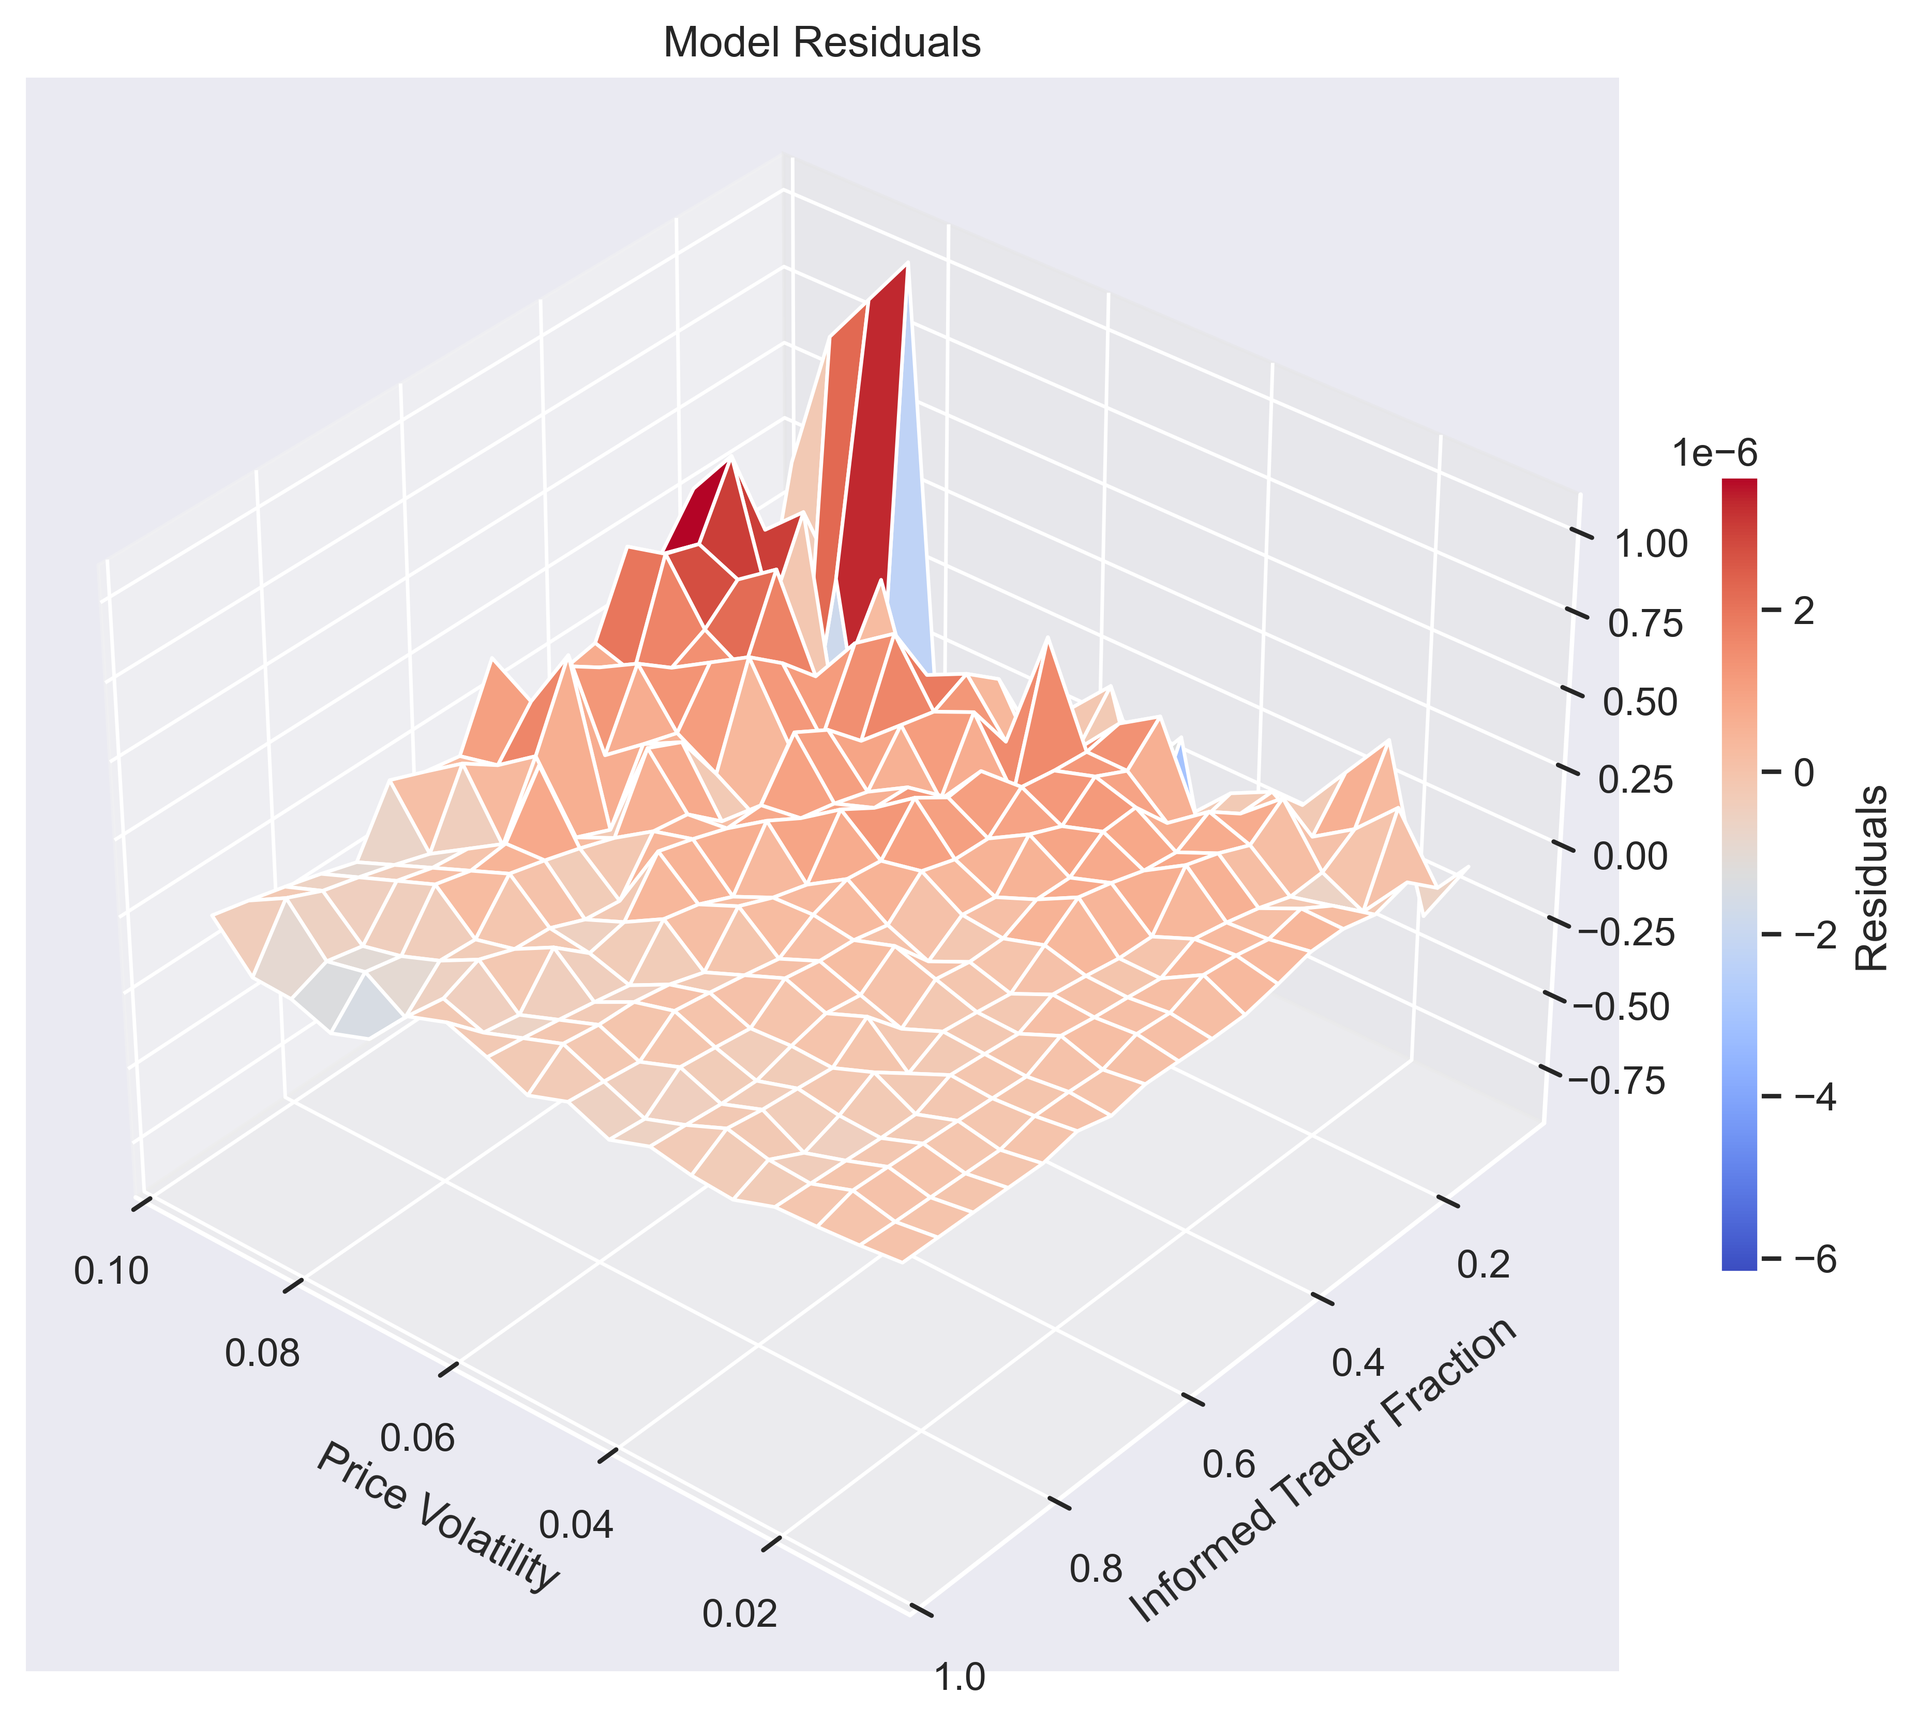
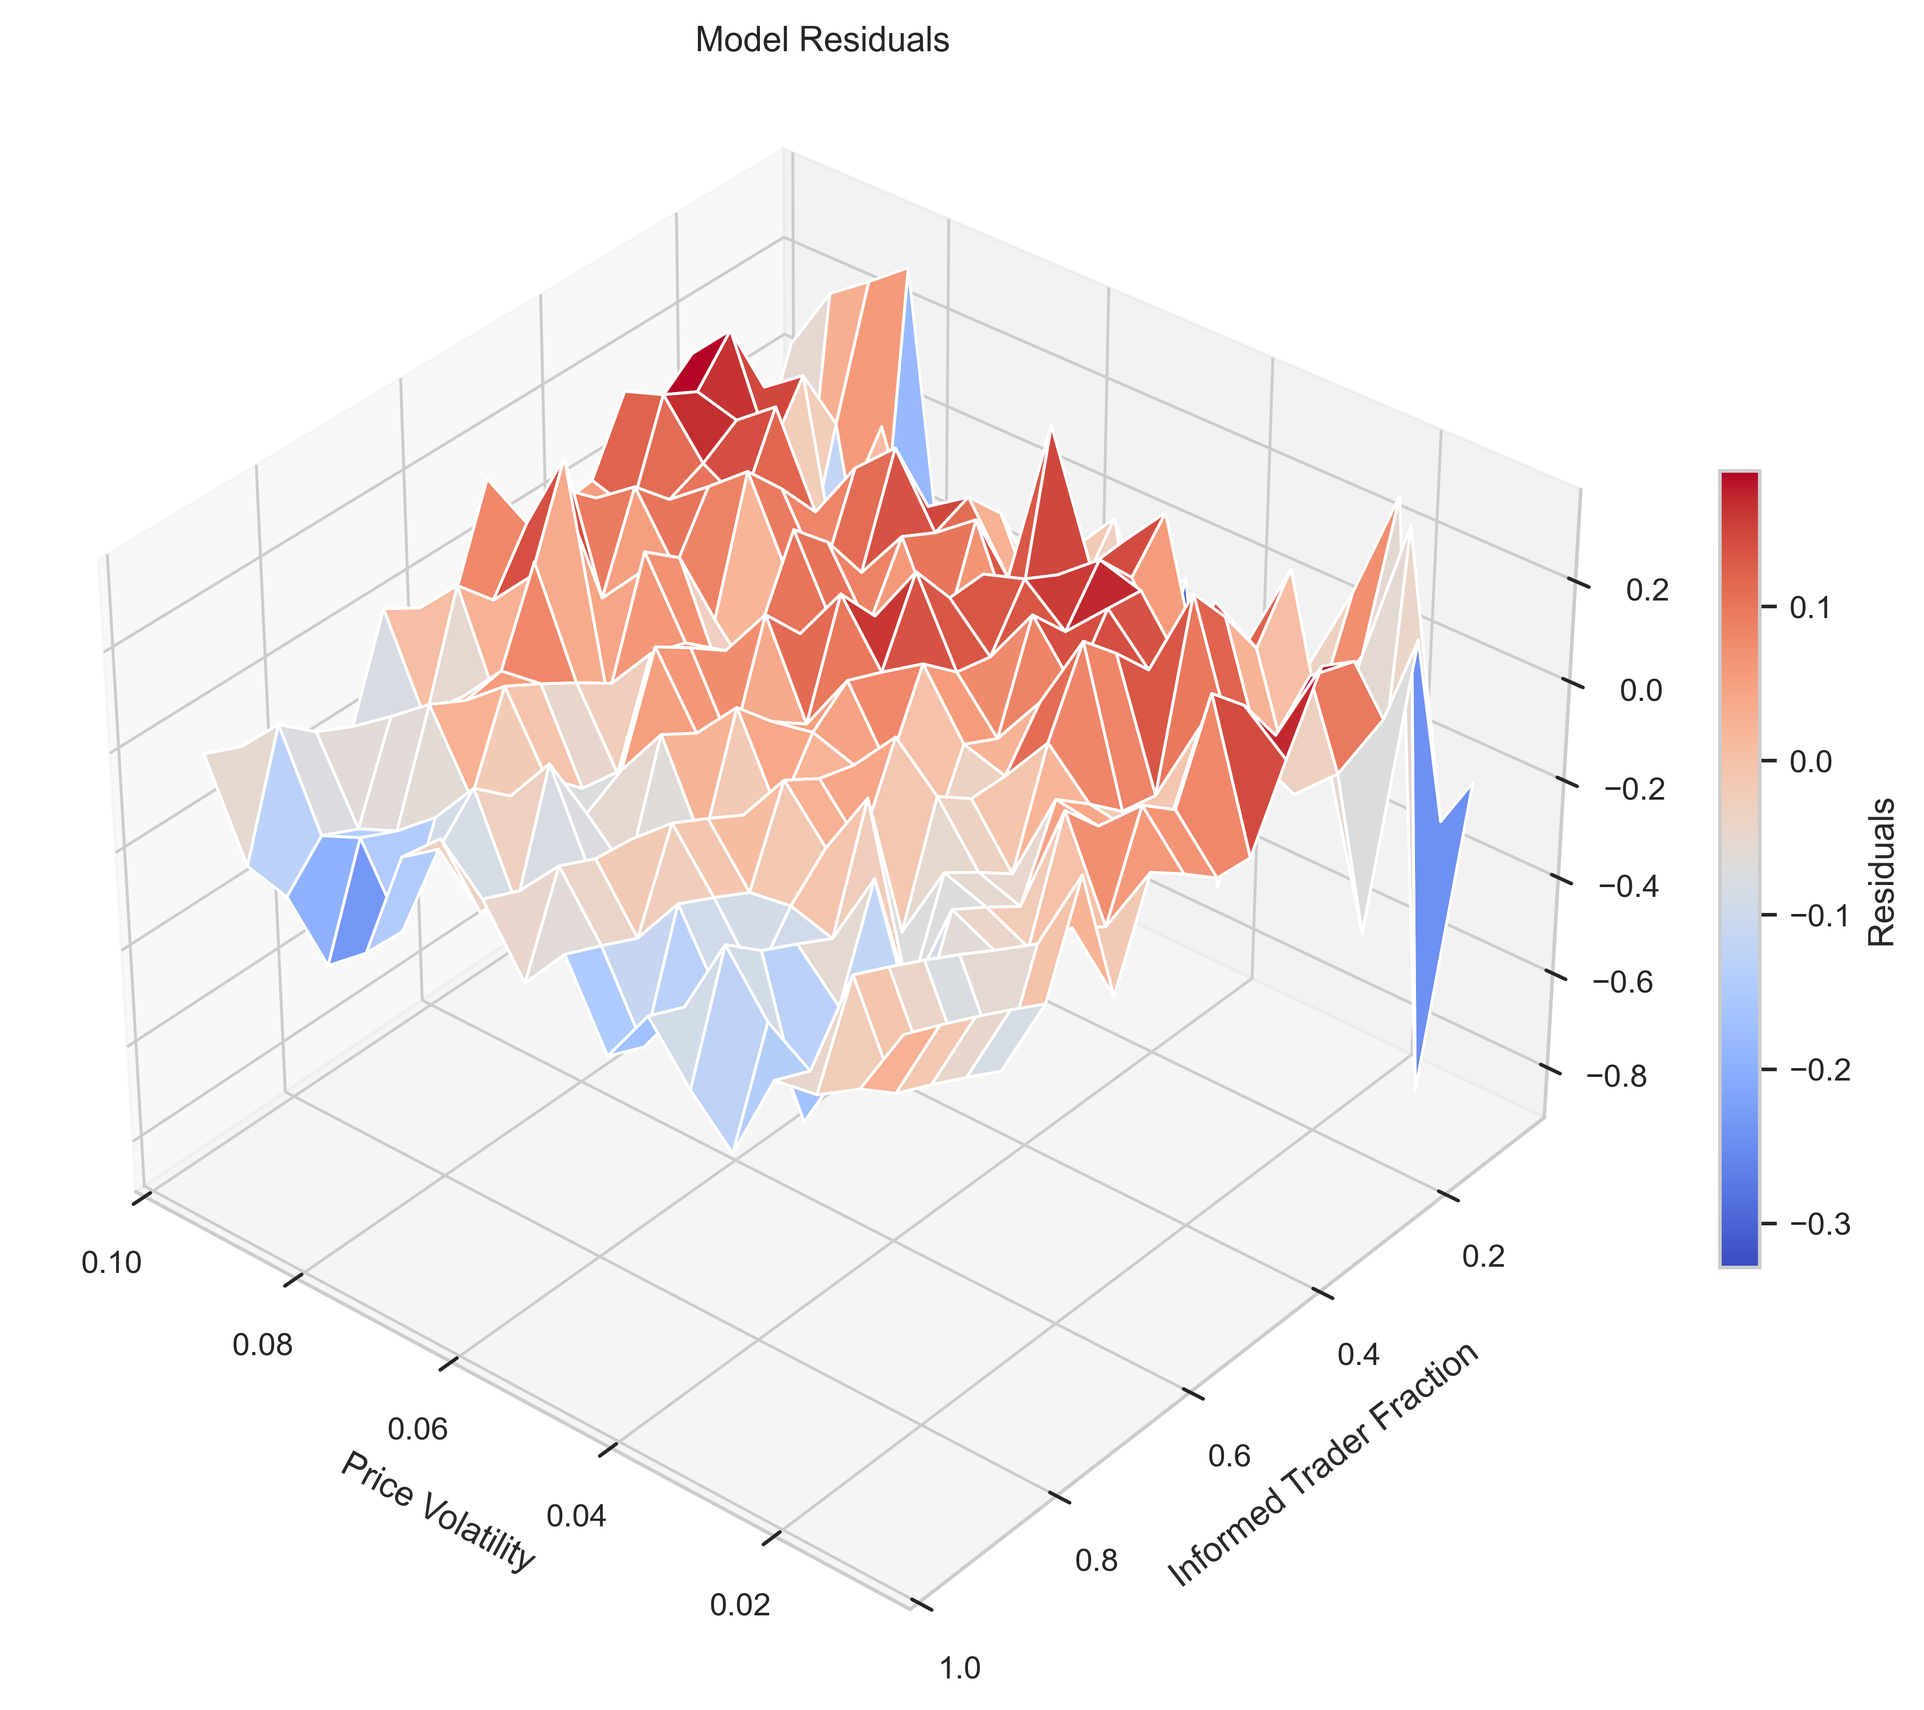
Finished first draft of report

diff --git a/experiments/simulations/src/render/path_plots.py b/experiments/simulations/src/render/path_plots.py
@@ -129,35 +129,9 @@ def plot_trajectory_on_axes(path_data, ax_price, ax_pnl, title=None):
     )
 
 
-def plot_single_trajectory(path, output_dir, filename="single_trajectory.png", dpi=500):
-    """Create figure with single trajectory and PnL plot."""
-    sns.set_theme()
-
-    path_data = path["path data"]
-    price_lim, pnl_lim = compute_axis_limits([path_data])
-
-    fig, axes = plt.subplots(
-        nrows=2,
-        gridspec_kw={"height_ratios": [2, 1]},
-        figsize=(10, 8),
-    )
-
-    axes[0].set_ylim(*price_lim)
-    axes[1].set_ylim(*pnl_lim)
-
-    plot_trajectory_on_axes(path_data, axes[0], axes[1], title="Simulated Trajectory")
-
-    plt.tight_layout()
-    fig.savefig(os.path.join(output_dir, filename), dpi=dpi, bbox_inches="tight")
-
-    return fig
-
-
-def plot_trajectory_comparison(
-    paths, output_dir, filename="trajectory_comparison.png", dpi=500
-):
+def plot_trajectories(paths, output_dir, filename="trajectory_comparison.png", dpi=500):
     """Create figure comparing multiple trajectories side-by-side."""
-    sns.set_theme()
+    sns.set_theme(style="whitegrid", context="paper")
 
     n_paths = len(paths)
     path_data_list = [data["path data"] for data in paths.values()]
@@ -171,14 +145,23 @@ def plot_trajectory_comparison(
         figsize=(10, 8),
     )
 
-    axes[0, 0].set_ylim(*price_lim)
-    axes[1, 0].set_ylim(*pnl_lim)
-
-    for j, (param, data) in enumerate(paths.items()):
-        path_data = data["path data"]
+    if n_paths == 1:
+        axes[0].set_ylim(*price_lim)
+        axes[1].set_ylim(*pnl_lim)
+        path_data = path_data_list[0]
         plot_trajectory_on_axes(
-            path_data, axes[0, j], axes[1, j], title=f"Skew coefficient: {param}"
+            path_data, axes[0], axes[1], title="Simulated Trajectory"
         )
+
+    else:
+        axes[0, 0].set_ylim(*price_lim)
+        axes[1, 0].set_ylim(*pnl_lim)
+
+        for j, (param, data) in enumerate(paths.items()):
+            path_data = data["path data"]
+            plot_trajectory_on_axes(
+                path_data, axes[0, j], axes[1, j], title=f"Skew coefficient: {param}"
+            )
 
     plt.tight_layout()
     fig.savefig(os.path.join(output_dir, filename), dpi=dpi, bbox_inches="tight")
@@ -214,7 +197,7 @@ def render_trajectory_figures(
         print(f"Loading comparison data from {comparison_data_path}...")
         paths = load_data(comparison_data_path)
         print(f"Generating trajectory comparison ({len(paths)} scenarios)...")
-        fig_comparison = plot_trajectory_comparison(
+        fig_comparison = plot_trajectories(
             paths, output_dir, "trajectory_comparison.png", dpi
         )
         figures["comparison"] = fig_comparison
@@ -224,9 +207,7 @@ def render_trajectory_figures(
         print(f"Loading single trajectory data from {single_data_path}...")
         path = load_data(single_data_path)
         print("Generating single trajectory plot...")
-        fig_single = plot_single_trajectory(
-            path, output_dir, "single_trajectory.png", dpi
-        )
+        fig_single = plot_trajectories(path, output_dir, "single_trajectory.png", dpi)
         figures["single"] = fig_single
 
     print(f"All figures saved to {output_dir}")

diff --git a/experiments/simulations/src/render/optimal_tables.py b/experiments/simulations/src/render/optimal_tables.py
@@ -88,7 +88,7 @@ def dataframe_to_markdown(df, float_format=".6e"):
 def compute_relative_diffference(df, column1, column2):
     """Compute summary statistics, optionally as relative difference."""
     values = (df[column1] - df[column2]) / np.abs(df[column1])
-    label = f"relative difference {column1} vs {column2}"
+    label = f"{column1} vs {column2} (rel diff)"
 
     return {
         "metric": label,

diff --git a/experiments/simulations/src/path_visuals.py b/experiments/simulations/src/path_visuals.py
@@ -45,7 +45,7 @@ def generate_trajectories(price_vol, informed_frac, skew_coef, timesteps=1000, s
         paths[sc] = {"path data": path_df, "summary stats": results["summary stats"]}
 
     # Return single path dict if only one coefficient, otherwise return full dict
-    return paths[skew_coef] if is_single else paths
+    return paths
 
 
 def save_pickle(data, filepath):

diff --git a/experiments/simulations/src/render/optimal_plots.py b/experiments/simulations/src/render/optimal_plots.py
@@ -128,7 +128,7 @@ def create_surface_plots(data, output_dir, dpi=500):
 
     Z_data = data["grids"]["optimal sc-returns"]
     Z_model = np.exp(-9.2612 - 0.5837 * np.log(Y) + 1.0278 * np.log(X))
-    Z_residuals = Z_data - Z_model
+    Z_residuals = np.log(Z_data) - np.log(Z_model)
 
     # Data vs model
     fig_surfaces, axes = plt.subplots(

diff --git a/experiments/simulations/reports/Endogenous_pricing.md b/experiments/simulations/reports/Endogenous_pricing.md
@@ -28,7 +28,7 @@ The mechanism of price discovery is adverse selection: when the market maker ove
 ## Illustrative Example
 The following simulation demonstrates that the mechanism can produce endogenous pricing. With an appropriately calibrated skew coefficient, the market maker's mid-price tracks the fundamental asset value despite having no direct observation of it:
 
-![image](./figures/fig2.png)
+![image](../outputs/figures/single_trajectory.png)
 
 Notably, the market maker achieves positive mark-to-market returns, suggesting that its pricing strategy—derived purely from inventory management—successfully navigates the adverse selection imposed by informed traders. This raises two critical questions that we investigate in the subsequent analysis:
 
@@ -42,7 +42,7 @@ The remainder of this report addresses these questions through systematic experi
 
 An exploratory plot of trajectories indicates that the correct skew coefficient makes the market maker sensitive enough to inventory accumulation that it may follow the fundamental value of the asset well, and yet doesn't overreact to a weak signal. In economic terms, the market maker must be sufficiently willing to unwind a position if it looks like the fundamental value has deviated from the mid-price, but musn't overpay in order to unwind.
 
-![image])(./figures/fig1.png)
+![image](../outputs/figures/trajectory_comparison.png)
 
 We might expect, therefore, that:
 1) High asset volatility implies a higher optimal skew coefficient; the market maker must be more sensitive to the signal to be able to follow the higher volatility asset trajectory.
@@ -52,23 +52,79 @@ We might expect, therefore, that:
 
 I use monte-carlo simulation and a simple but effective grid search to optimise the skew coefficient in different market regimes. I find optimal skew coefficients and the value of two different metrics at the optimal skew at 324 different market regimes $(\sigma, \gamma)$, where $\sigma = \{0.005 + 0.005i\}_{i=1}^18$ represents the market volatility and $\gamma = \{0.05 + 0.05\}_{i=1}^18$ represents the fraction of informed traders. 
 
-At each regime point I perform a grid search across a skew coefficient set $c = \{1e-6 + i \cdot 2.5e-7}_{i=1}^40 \cup \{1e-5 + i \cdot 2.5e-6}_{i=1}^40$. This grid search was arrived upon after intial investigations revealed the optimal skew coefficient scaled logarithmically with asset-volatility.
+At each regime point I execute a two step grid search: coarse grid, fine grid. Some cursory grid based optimisation suggested that the optimal coefficient was related to the two regime variables by a power law, so I conduct the search with a log-linear grid. At each point in the parameter space $(\sigma, \gamma, c)$ I simulate $5$ trajectories and take the average of the desired optimisation metric accross those 5 paths. 
 
-Note: In order to justify the market regime range we can do a back of the napkin calculation: with an initial price of 
+For the full experiment choose a 20 point coarse grid and a 10 point fine grid, therefore the total number of simulated trajectories is 48600. For each simulated trajectory, an L3 limit order book is generated and matching logic is performed on an average of 12,500 market orders. The experiment is, therefore, computationally expensive. To make the computation feasible on my laptop, I seperate the load into tasks by market regime, and execute each task in parallel.
+
+### Results 
+
+The results confirm the expected behaviour, when we optimise by returns and final mark to market position. In fact, the optimal returns skew coefficient and the optimal final mark to market are identical. Below is the heat map for the more robust metric of average returns
+
+![image](../outputs/figures/optimal_skew.png)
+
+The two tables below verify that for fixed informed fraction, higher asset value volatility compels a higher skew coefficient, and for fixed asset value volatility higher ifnormed fraction requires a lower skew coefficient. 
+
+**Fixed Informed Fraction (0.5)**
+
+|   price volatility |   optimal sc-returns |   average returns |        final pnl |
+|-------------------:|---------------------:|------------------:|-----------------:|
+|               0.02 |          2.56659e-06 |       4.85518e-06 |      1.00486e+06 |
+|               0.04 |          5.31063e-06 |       2.80603e-06 |      1.00281e+06 |
+|               0.06 |          8.62328e-06 |       7.37347e-07 |      1.00074e+06 |
+|               0.08 |          1.12884e-05 |      -1.16342e-06 | 998838           |
+
+**Fixed Price Volatility (0.05)**
+
+|   informed fraction |   optimal sc-returns |   average returns |        final pnl |
+|--------------------:|---------------------:|------------------:|-----------------:|
+|                 0.2 |          1.09884e-05 |       3.67679e-06 |      1.00368e+06 |
+|                 0.4 |          8.62328e-06 |       2.56539e-06 |      1.00257e+06 |
+|                 0.6 |          6.24197e-06 |       9.9548e-07  |      1.001e+06   |
+|                 0.8 |          5.31063e-06 |      -8.19639e-07 | 999181           |
+
+A further interesting observation evident from the heatmap is that along optimal skew coefficient level sets, higher volatility and higher informed fraction reduce returns. This makes sense: a higher informed fraction increases the adverse selection cost while decreasing the opportunity for 'free' spread capture from uninformed traders, while a higher volatility increases the inventory risk and thus the optimal market maker has higher costs associated with inventory management.
+
+This last remark becomes more intuitive when combined with the hypothesis, which we confirm in the following section, that an optimally perfoming market maker in the defined regime also discovers price optimally.
+
+Finally we fit a power model regression (log-log) that determines the optimal skew coefficient as a function of the market regime. As the preliminary results suggested the fit of such a model is very good: the $R^2$ value is 0.958, and the $t$ statistics are very large.
+
+Fitting: $\log(c^*) \sim \beta_0 + \beta_1 \cdot \log(\gamma) + \beta_2 \cdot \log(\sigma)$
+
+| Variable | Coefficient | Std Error | t-statistic | P>\|t\| |
+|----------|-------------|-----------|-------------|-------|
+| const | -9.2612 | 0.0452 | -204.766 | 0.0000 |
+| informed fraction | -0.5837 | 0.0138 | -42.309 | 0.0000 |
+| price volatility | 1.0278 | 0.0138 | 74.497 | 0.0000 |
+
+- R-squared: 0.9581
+- Adjusted R-squared: 0.9578
+- F-statistic: 3669.94
+
+Plotting the model and the data side by side confirms visually the goodness of fit.
+
+![image](../outputs/figures/data_model_surface.png)
+
+Plotting the residuals shows a slight but not catastrophic heteroskedasticity.
+
+![image](../outputs/figures/data_model_residuals_surface.png)
+
+## Efficiency and Profit
+
+We believed at the beginning of the investigation that price-discovery and profit motive were aligned. This belief would be vindicated if the skew coefficient for optimally efficient price-discovery and that for optimal returns were the same or close. 
+
+Plotting the optimal skew coefficient heat maps for different market regimes side by side we can see that this is indeed the case.
+
+![image](../outputs/figures/msd_return.png)
+
+Plotting the relative differences $\frac{c^*_{returns} - c^*_{msd}}{c^*_{returns}}$ shows that the difference in optimal skew is mostly under a single percentage point.
+
+![image](../outputs/figures/msd_returns_difference.png)
+
+Indeed the average relative difference in skew is ~ 0.1%
+
+| Metric | Mean | Std | Min | Max |
+|--------|------|-----|-----|-----|
+| *optimal sc-returns* vs *optimal sc-msd* (rel diff) | 1.388757e-01 | 1.783728e-01 | -1.367386e+00 | 9.304807e-01 |
 
 
 
-
-| informed fraction | price volatility | optimal coefficient | average returns   | final pnl      |
-|-----------------|----------------|------------------|-----------------|----------------|
-| 0.5             | 0.02           | 2.750000e-06     | 4.812768e-06    | 1.004820e+06  |
-| 0.5             | 0.04           | 4.750000e-06     | 2.846395e-06    | 1.002848e+06  |
-| 0.5             | 0.06           | 7.250000e-06     | 7.936532e-07    | 1.000793e+06  |
-| 0.5             | 0.08           | 9.000000e-06     | -1.533427e-06   | 9.984693e+05  |
-
-| informed fraction | price volatility | optimal coefficient | average returns   | final pnl      |
-|-----------------|----------------|------------------|-----------------|----------------|
-| 0.2             | 0.05           | 1.250000e-05     | 3.643743e-06    | 1.003647e+06  |
-| 0.4             | 0.05           | 8.250000e-06     | 2.599404e-06    | 1.002600e+06  |
-| 0.6             | 0.05           | 4.750000e-06     | 1.093102e-06    | 1.001093e+06  |
-| 0.8             | 0.05           | 4.750000e-06     | -4.185457e-07   | 9.995819e+05  |

diff --git a/experiments/simulations/outputs/optimisation_analysis_report.md b/experiments/simulations/outputs/optimisation_analysis_report.md
@@ -23,8 +23,8 @@ Fitting: log(optimal_sc) ~ const + β₁·log(informed_frac) + β₂·log(price_
 
 | Metric | Mean | Std | Min | Max |
 |--------|------|-----|-----|-----|
-| relative difference optimal sc-returns vs optimal sc-msd | 1.388757e-01 | 1.783728e-01 | -1.367386e+00 | 9.304807e-01 |
-| relative difference optimal sc-returns vs optimal sc-pnl | 0.000000e+00 | 0.000000e+00 | 0.000000e+00 | 0.000000e+00 |
+| optimal sc-returns vs optimal sc-msd (rel diff) | 1.388757e-01 | 1.783728e-01 | -1.367386e+00 | 9.304807e-01 |
+| optimal sc-returns vs optimal sc-pnl (rel diff) | 0.000000e+00 | 0.000000e+00 | 0.000000e+00 | 0.000000e+00 |
 
 ## Fixed Informed Fraction (0.5)
 
